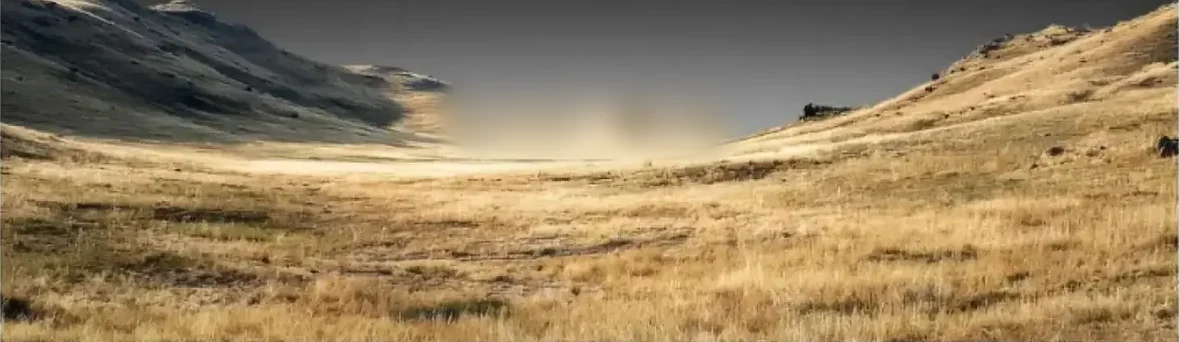
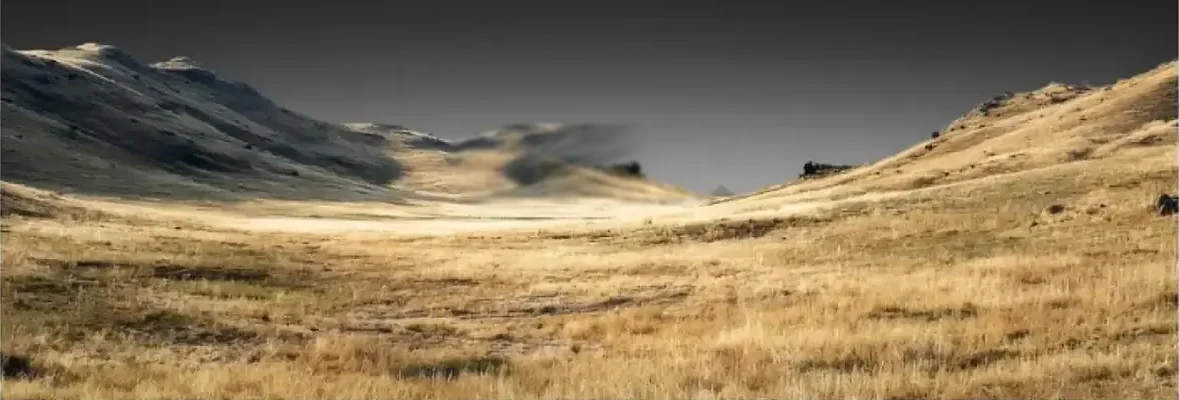
Fix footer landscape layout and retouching
- Size the landscape by width (max(300px, 33.9vw)) instead of
  aspect-ratio + min-height, which widened the box past the viewport on
  phones and pushed the store buttons and copyright off-screen
- Re-crop the plate higher so both hills keep their full silhouettes
  instead of fading in mid-slope, repainting the reference's footer links
  out of the sky
- Rebuild the area behind the store buttons by mirroring the terrain on
  each side, instead of a blurred haze patch, and centre the buttons on it

Claude-Session: https://claude.ai/code/session_01L4w6T4dybwXjJcX1sAvhj6

diff --git a/components/sections/footer.tsx b/components/sections/footer.tsx
@@ -37,17 +37,22 @@ export function Footer() {
         </div>
       </Container>
 
-      <div className="relative -mt-4 aspect-[1179/342] min-h-[280px] sm:-mt-10">
+      {/*
+        The plate is 1179×400. Its height follows the width (never less than
+        300px) and object-cover crops the sides, so the painted-out spot the
+        store buttons sit on stays at 50% / 43% at every size.
+      */}
+      <div className="relative -mt-6 h-[max(300px,33.9vw)] sm:-mt-10 lg:-mt-[5vw]">
         <Image
           src={footer.image.src}
           alt={footer.image.alt}
           fill
           quality={90}
-          sizes="100vw"
-          className="object-cover [mask-image:linear-gradient(to_bottom,transparent,#000_35%)]"
+          sizes="(min-width: 885px) 100vw, 885px"
+          className="object-cover [mask-image:linear-gradient(to_bottom,transparent,#000_22%)]"
         />
-        <StoreButtons className="absolute top-[34%] left-1/2 -translate-x-1/2 -translate-y-1/2 flex-nowrap" />
-        <p className="absolute inset-x-0 bottom-4 text-center text-[11px] text-white/80 [text-shadow:0_1px_8px_rgb(0_0_0/0.5)]">
+        <StoreButtons className="absolute top-[43%] left-1/2 -translate-x-1/2 -translate-y-1/2 flex-nowrap" />
+        <p className="absolute inset-x-0 bottom-4 px-4 text-center text-[11px] text-white/85 [text-shadow:0_1px_8px_rgb(0_0_0/0.6)]">
           © {new Date().getFullYear()} {mintoMeta.name} Financial, Inc. All rights reserved.
         </p>
       </div>
